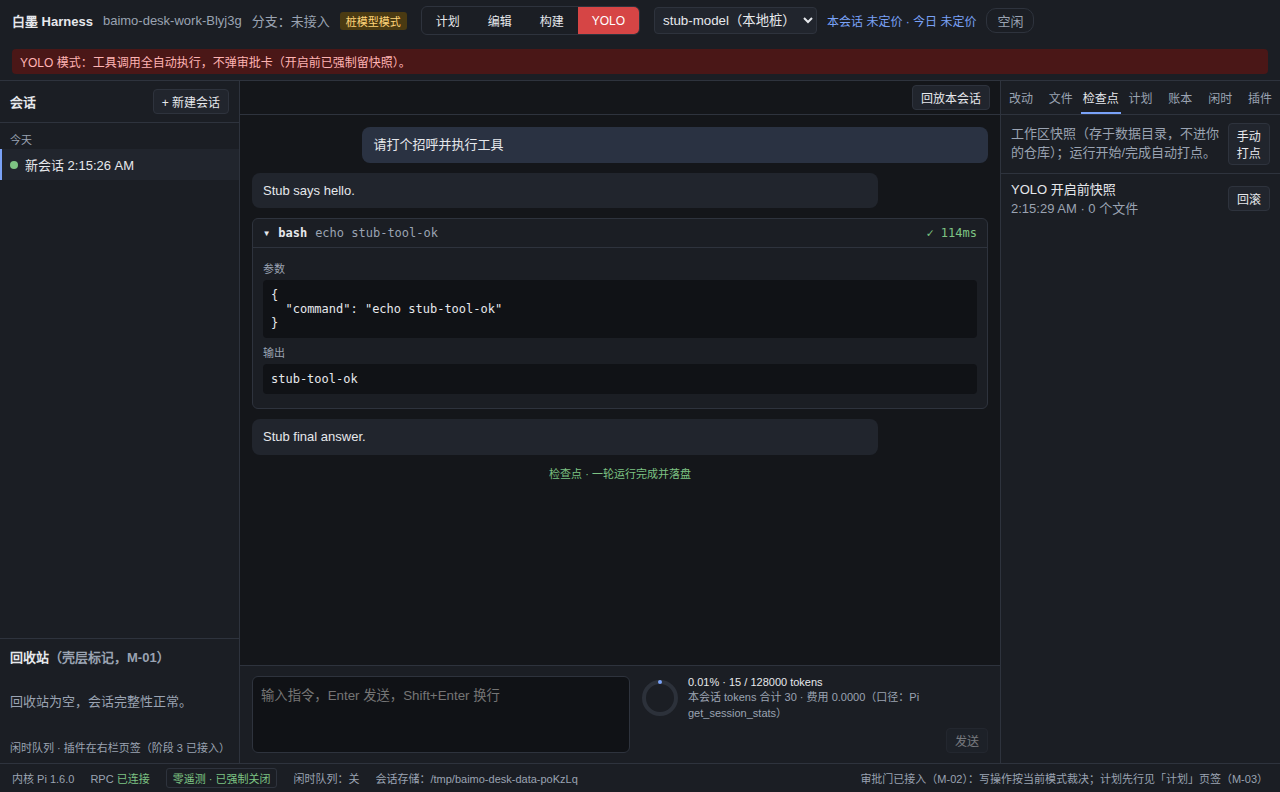
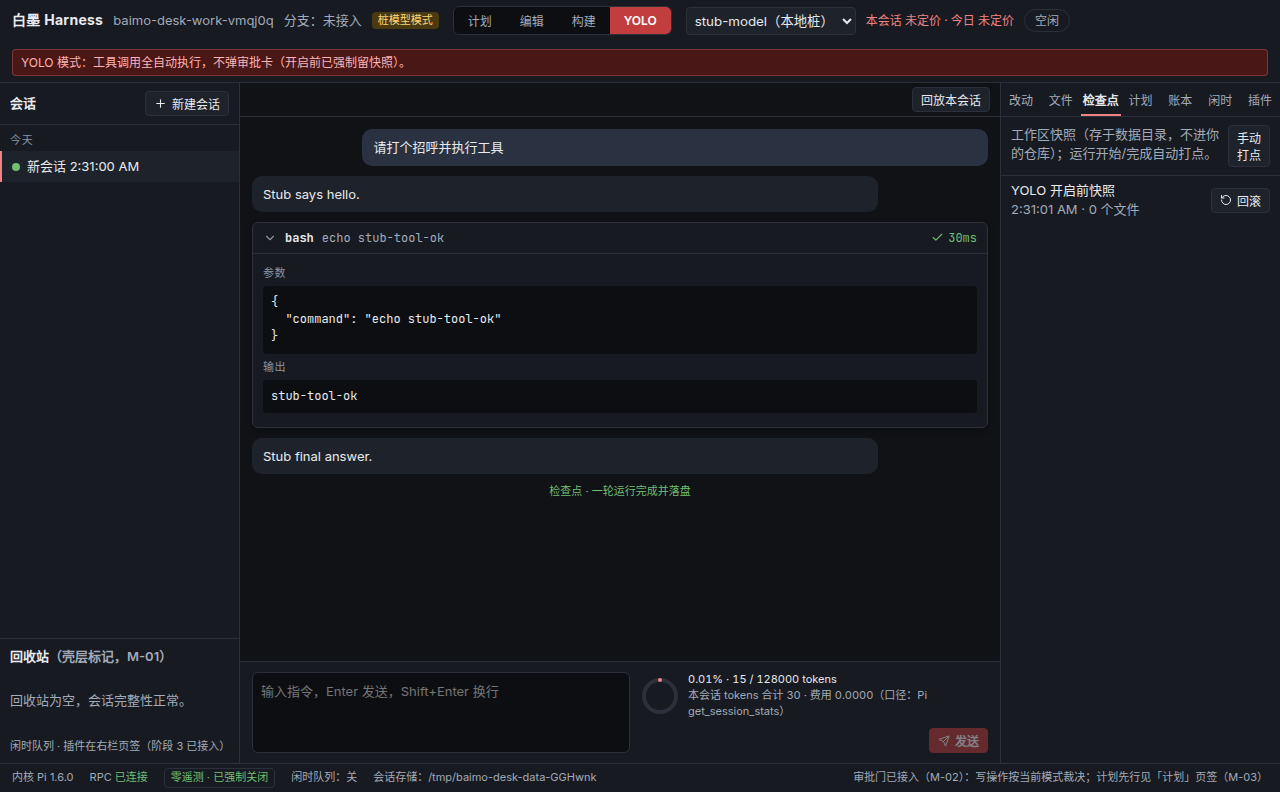
feat(ui): 第八块单元2 字体与图标（Fontsource 自托管 Inter/JetBrains Mono 接线 + Lucide 全量替换字符符号：工具卡/计划步骤/回放/会话/审批）

diff --git a/packages/ui/src/components.tsx b/packages/ui/src/components.tsx
@@ -4,6 +4,25 @@
  */
 import { useEffect, useMemo, useState, type ReactNode } from "react";
 import {
+  Check,
+  ChevronDown,
+  ChevronRight,
+  ChevronUp,
+  Circle,
+  LoaderCircle,
+  Pause,
+  Play,
+  Plus,
+  RotateCcw,
+  Send,
+  ShieldAlert,
+  SkipBack,
+  SkipForward,
+  Square,
+  Undo2,
+  X,
+} from "lucide-react";
+import {
   PERMISSION_MODES,
   type ApprovalChoice,
   type ApprovalRequestDto,
@@ -160,8 +179,9 @@ export function SessionList(props: {
     <aside className="sidebar" data-testid="session-list">
       <div className="sidebar-head">
         <span>会话</span>
-        <button type="button" data-testid="new-session" onClick={props.onNew}>
-          + 新建会话
+        <button type="button" className="ic" data-testid="new-session" onClick={props.onNew}>
+          <Plus size={13} />
+          新建会话
         </button>
       </div>
       <div className="session-scroll">
@@ -189,12 +209,13 @@ export function SessionList(props: {
                   className="session-del"
                   data-testid="delete-session"
                   title="删除（进回收站）"
+                  aria-label="删除会话（进回收站）"
                   onClick={(e) => {
                     e.stopPropagation();
                     props.onDeleteRequest(s);
                   }}
                 >
-                  ×
+                  <X size={13} />
                 </button>
               </div>
             ))}
@@ -212,9 +233,11 @@ export function SessionList(props: {
             <span className="session-title">{s.title}</span>
             <button
               type="button"
+              className="ic"
               data-testid="restore-session"
               onClick={() => props.onRestore(s.id)}
             >
+              <Undo2 size={12} />
               还原
             </button>
           </div>
@@ -234,7 +257,13 @@ function ToolCard(props: {
   const [open, setOpen] = useState(false);
   const it = props.item;
   const statusIcon =
-    it.status === "running" ? "…" : it.status === "ok" ? "✓" : "✗";
+    it.status === "running" ? (
+      <LoaderCircle size={13} className="icon-spin" />
+    ) : it.status === "ok" ? (
+      <Check size={13} />
+    ) : (
+      <X size={13} />
+    );
   return (
     <div className="tool-card" data-testid="tool-card" data-tool={it.toolName}>
       <button
@@ -244,12 +273,14 @@ function ToolCard(props: {
         onClick={() => setOpen((v) => !v)}
         aria-expanded={open}
       >
-        <span className="tool-caret">{open ? "▾" : "▸"}</span>
+        <span className="tool-caret">
+          {open ? <ChevronDown size={14} /> : <ChevronRight size={14} />}
+        </span>
         <span className="tool-name">{it.toolName}</span>
         <span className="tool-target">{it.target}</span>
         <span className={`tool-status tool-${it.status}`}>
           {statusIcon}
-          {typeof it.durationMs === "number" ? ` ${it.durationMs}ms` : ""}
+          {typeof it.durationMs === "number" ? `${it.durationMs}ms` : ""}
         </span>
       </button>
       {open && (
@@ -283,17 +314,21 @@ function DiffCard(props: {
         <span className="dim">标记：{props.mark === "pending" ? "未处理" : props.mark === "accepted" ? "已接受" : "已回滚"}</span>
         <button
           type="button"
+          className="ic"
           data-testid="diff-accept"
           onClick={() => props.onMark("accepted")}
         >
+          <Check size={12} />
           接受
         </button>
         <button
           type="button"
+          className="ic"
           data-testid="diff-rollback"
           onClick={() => props.onMark("rolledback")}
           title="把该文件恢复到最近检查点的状态（真实回滚，M-06）"
         >
+          <Undo2 size={12} />
           回滚
         </button>
       </div>
@@ -335,7 +370,7 @@ export function StreamView(props: {
                 data-testid="msg-assistant"
               >
                 {it.text}
-                {it.streaming && <span className="cursor">▍</span>}
+                {it.streaming && <span className="cursor" />}
               </div>
             );
           case "tool": {
@@ -531,18 +566,22 @@ export function IdlePanel(props: {
                 <>
                   <button
                     type="button"
+                    className="ic"
                     data-testid="idle-move-up"
                     onClick={() => props.onMove(it.id, -1)}
                     title="在待执行序列里上移一位"
                   >
+                    <ChevronUp size={12} />
                     上移
                   </button>
                   <button
                     type="button"
+                    className="ic"
                     data-testid="idle-move-down"
                     onClick={() => props.onMove(it.id, 1)}
                     title="在待执行序列里下移一位"
                   >
+                    <ChevronDown size={12} />
                     下移
                   </button>
                 </>
@@ -832,6 +871,7 @@ export function ApprovalCard(props: {
   return (
     <div className="approval-card" data-testid="approval-card" data-tool={r.tool}>
       <div className="approval-head">
+        <ShieldAlert size={15} className="approval-icon" />
         <strong>需要审批：{r.tool}</strong>
         {r.danger && <span className="badge-danger">危险命令</span>}
         <span className="dim" data-testid="approval-reason">
@@ -906,7 +946,13 @@ function PlanStepsList(props: { plan: PlanStateDto }) {
           data-status={s.status}
         >
           <span className="plan-step-icon">
-            {s.status === "done" ? "✓" : s.status === "failed" ? "✗" : "○"}
+            {s.status === "done" ? (
+              <Check size={12} />
+            ) : s.status === "failed" ? (
+              <X size={12} />
+            ) : (
+              <Circle size={10} />
+            )}
           </span>
           <span className="plan-step-title">{s.title}</span>
           <span className="dim">{s.action}</span>
@@ -1129,10 +1175,12 @@ export function RightPanel(props: {
                 </div>
                 <button
                   type="button"
+                  className="ic"
                   data-testid="checkpoint-rollback"
                   onClick={() => props.onRollbackCheckpoint(c.id)}
                   title="把工作区恢复到这个检查点的状态（回滚前会自动再留一张快照）"
                 >
+                  <RotateCcw size={12} />
                   回滚
                 </button>
               </div>
@@ -1246,26 +1294,32 @@ export function ReplayBar(props: {
       <span className="replay-title">回放（只读）</span>
       <button
         type="button"
+        className="ic"
         data-testid="replay-toggle"
         onClick={props.onTogglePlay}
         disabled={props.total === 0}
       >
+        {props.playing ? <Pause size={12} /> : <Play size={12} />}
         {props.playing ? "暂停" : "播放"}
       </button>
       <button
         type="button"
+        className="ic"
         data-testid="replay-step-back"
         onClick={props.onStepBack}
         disabled={props.index <= 0}
       >
+        <SkipBack size={12} />
         上一步
       </button>
       <button
         type="button"
+        className="ic"
         data-testid="replay-step-forward"
         onClick={props.onStepForward}
         disabled={props.index >= props.total}
       >
+        <SkipForward size={12} />
         下一步
       </button>
       <input
@@ -1461,20 +1515,23 @@ export function Composer(props: {
             )}
             <button
               type="button"
+              className="ic btn-primary"
               data-testid="composer-send"
               disabled={!props.canSend || text.trim() === ""}
               onClick={send}
             >
+              <Send size={12} />
               {props.running ? "入队" : "发送"}
             </button>
             {props.running && (
               <button
                 type="button"
                 data-testid="composer-stop"
-                className="btn-stop"
+                className="ic btn-stop"
                 onClick={props.onStop}
                 title="停止当前运行（RPC abort）：运行以「已停止」收尾，不记完成"
               >
+                <Square size={11} />
                 停止
               </button>
             )}

diff --git a/packages/ui/src/styles.css b/packages/ui/src/styles.css
@@ -130,6 +130,14 @@ input, textarea, select { font-family: inherit; }
 .pad { padding: var(--sp-2) 10px; }
 .error-text { color: var(--err); }
 .spacer { flex: 1; }
+/* 图标（Lucide）与按钮内图文对齐 */
+.ic { display: inline-flex; align-items: center; gap: 5px; }
+.ic svg, .tool-caret svg { flex-shrink: 0; }
+.icon-spin { animation: icon-spin 1s linear infinite; }
+@keyframes icon-spin { to { transform: rotate(360deg); } }
+/* 每视图一个 primary action：填充强调色 + 白字，其余按钮保持描边次级 */
+.btn-primary { background: var(--accent-strong); border-color: var(--accent-strong); color: #fff; font-weight: 600; }
+.btn-primary:hover:not(:disabled) { background: var(--accent-strong); border-color: var(--border-strong); filter: brightness(1.12); }
 
 .app-shell { display: flex; flex-direction: column; height: 100vh; }
 .main-row { display: flex; flex: 1; min-height: 0; }
@@ -194,6 +202,7 @@ input, textarea, select { font-family: inherit; }
 .btn-stop:hover:not(:disabled) { background: var(--err-bg); border-color: var(--err); }
 .approval-card { border: 1px solid var(--warn); border-left: 4px solid var(--warn); background: var(--panel-2); margin: var(--sp-2) var(--sp-3); padding: 10px var(--sp-3); border-radius: var(--r-md); box-shadow: var(--shadow-card); }
 .approval-head { display: flex; align-items: center; gap: var(--sp-2); flex-wrap: wrap; }
+.approval-icon { color: var(--warn); flex-shrink: 0; }
 .badge-danger { color: var(--err); border: 1px solid var(--err); border-radius: var(--r-sm); padding: 0 6px; font-size: var(--fs-12); }
 .approval-args { max-height: 180px; overflow: auto; background: var(--code-bg); border: 1px solid var(--border); border-radius: var(--r-sm); padding: var(--sp-2); font-size: var(--fs-12); font-family: var(--font-mono); white-space: pre-wrap; word-break: break-all; }
 .approval-actions { display: flex; gap: var(--sp-2); flex-wrap: wrap; }
@@ -203,7 +212,7 @@ input, textarea, select { font-family: inherit; }
 .plan-head { display: flex; align-items: center; gap: var(--sp-2); flex-wrap: wrap; margin-bottom: 6px; }
 .plan-steps { list-style: none; margin: 0 0 var(--sp-2); padding: 0; }
 .plan-step { display: flex; gap: 7px; align-items: baseline; padding: 3px 0; }
-.plan-step-icon { width: 14px; text-align: center; flex-shrink: 0; }
+.plan-step-icon { width: 14px; display: inline-flex; justify-content: center; flex-shrink: 0; }
 .plan-step-done .plan-step-icon { color: var(--ok); }
 .plan-step-failed .plan-step-icon { color: var(--err); }
 .plan-step-failed .plan-step-title { color: var(--err); }
@@ -224,13 +233,16 @@ input, textarea, select { font-family: inherit; }
 .msg { max-width: min(85%, 820px); padding: var(--sp-2) 11px; border-radius: var(--r-lg); margin: 0 0 10px; white-space: pre-wrap; word-break: break-word; line-height: 1.55; }
 .msg-user { background: #2a3242; margin-left: auto; }
 .msg-assistant { background: var(--panel-2); }
-.cursor { color: var(--accent); }
+.cursor { display: inline-block; width: 7px; height: 1em; margin-left: 2px; background: var(--accent); vertical-align: -0.12em; animation: cursor-blink 1s steps(2, start) infinite; }
+@keyframes cursor-blink { 50% { opacity: 0; } }
 .tool-card { border: 1px solid var(--border); border-radius: var(--r-md); margin: 0 0 10px; background: var(--panel); box-shadow: var(--shadow-card); }
 .tool-head {
   display: flex; gap: var(--sp-2); align-items: center; width: 100%; text-align: left;
   background: transparent; border: none; padding: 7px 10px; font-family: var(--font-mono); font-size: var(--fs-12);
 }
 .tool-head:hover:not(:disabled) { background: var(--panel-2); }
+.tool-caret { display: inline-flex; color: var(--faint); }
+.tool-status { display: inline-flex; align-items: center; gap: 4px; }
 .tool-name { font-weight: 700; }
 .tool-target { flex: 1; color: var(--dim); overflow: hidden; text-overflow: ellipsis; white-space: nowrap; }
 .tool-ok { color: var(--ok); }

diff --git a/apps/desktop/src/renderer/main.tsx b/apps/desktop/src/renderer/main.tsx
@@ -1,6 +1,12 @@
 import { createRoot } from "react-dom/client";
 import { App, type BaimoBridge } from "@baimo-harness/ui";
 import "@baimo-harness/ui/styles.css";
+/* 字体自托管（Fontsource，构建期打包、运行时零联网，合零遥测红线）：
+ * Inter Variable 管 UI 文字，JetBrains Mono 管代码/diff/数字。 */
+import "@fontsource-variable/inter";
+import "@fontsource/jetbrains-mono/400.css";
+import "@fontsource/jetbrains-mono/600.css";
+import "@fontsource/jetbrains-mono/700.css";
 
 declare global {
   interface Window {
